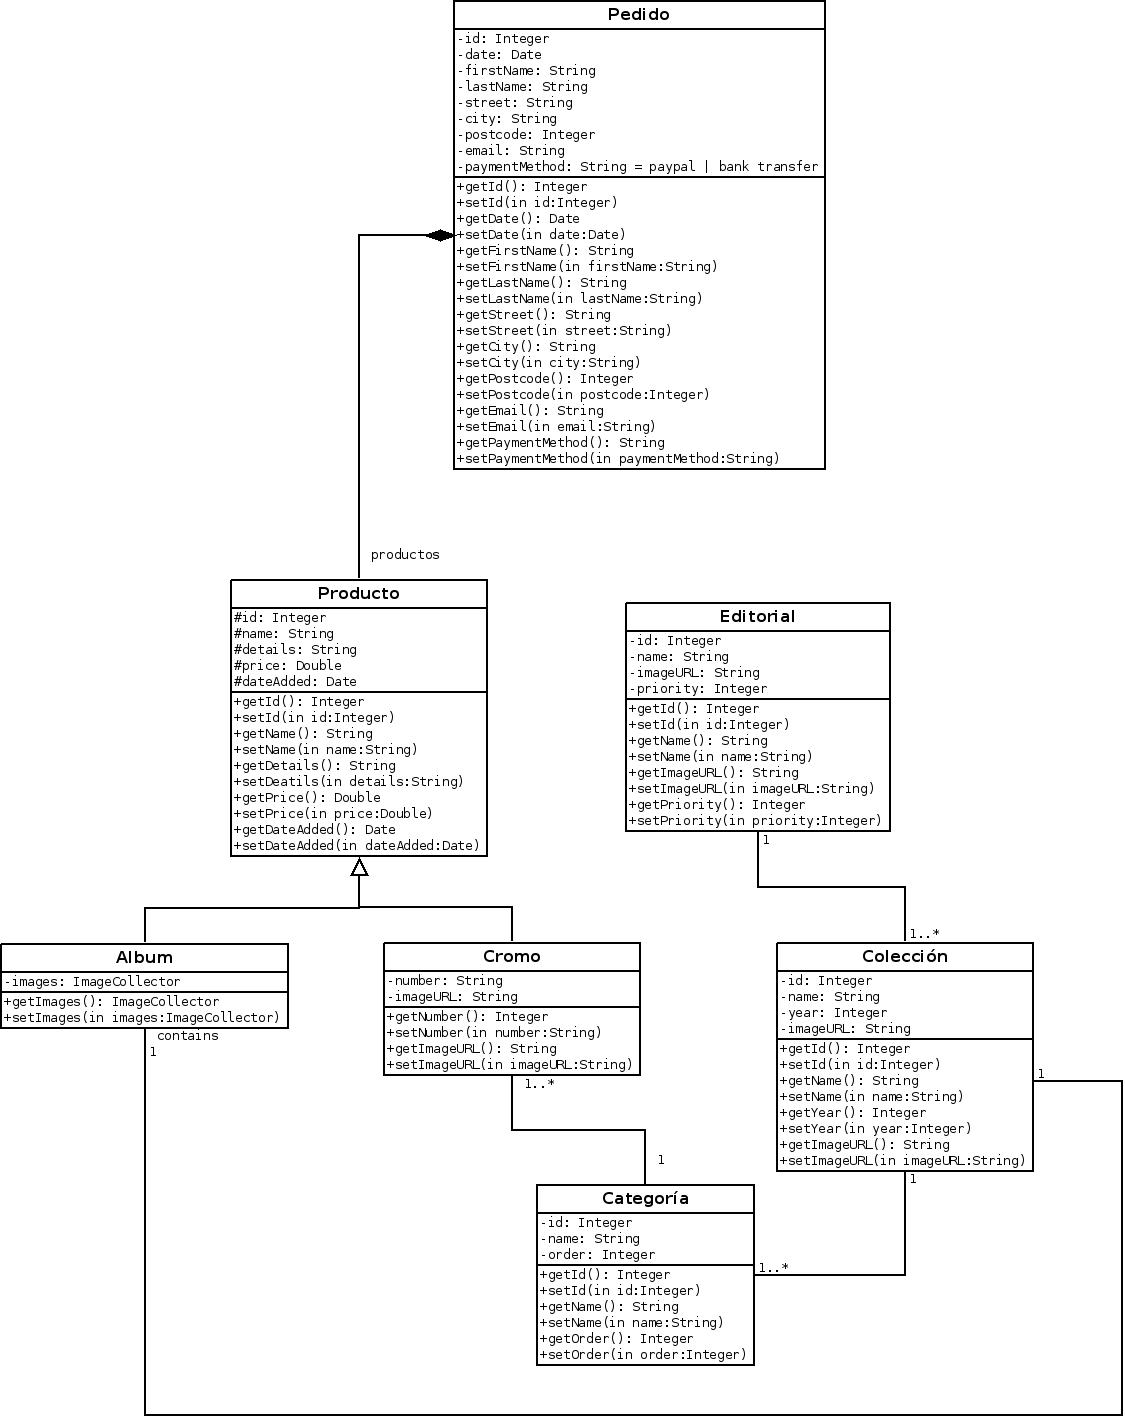
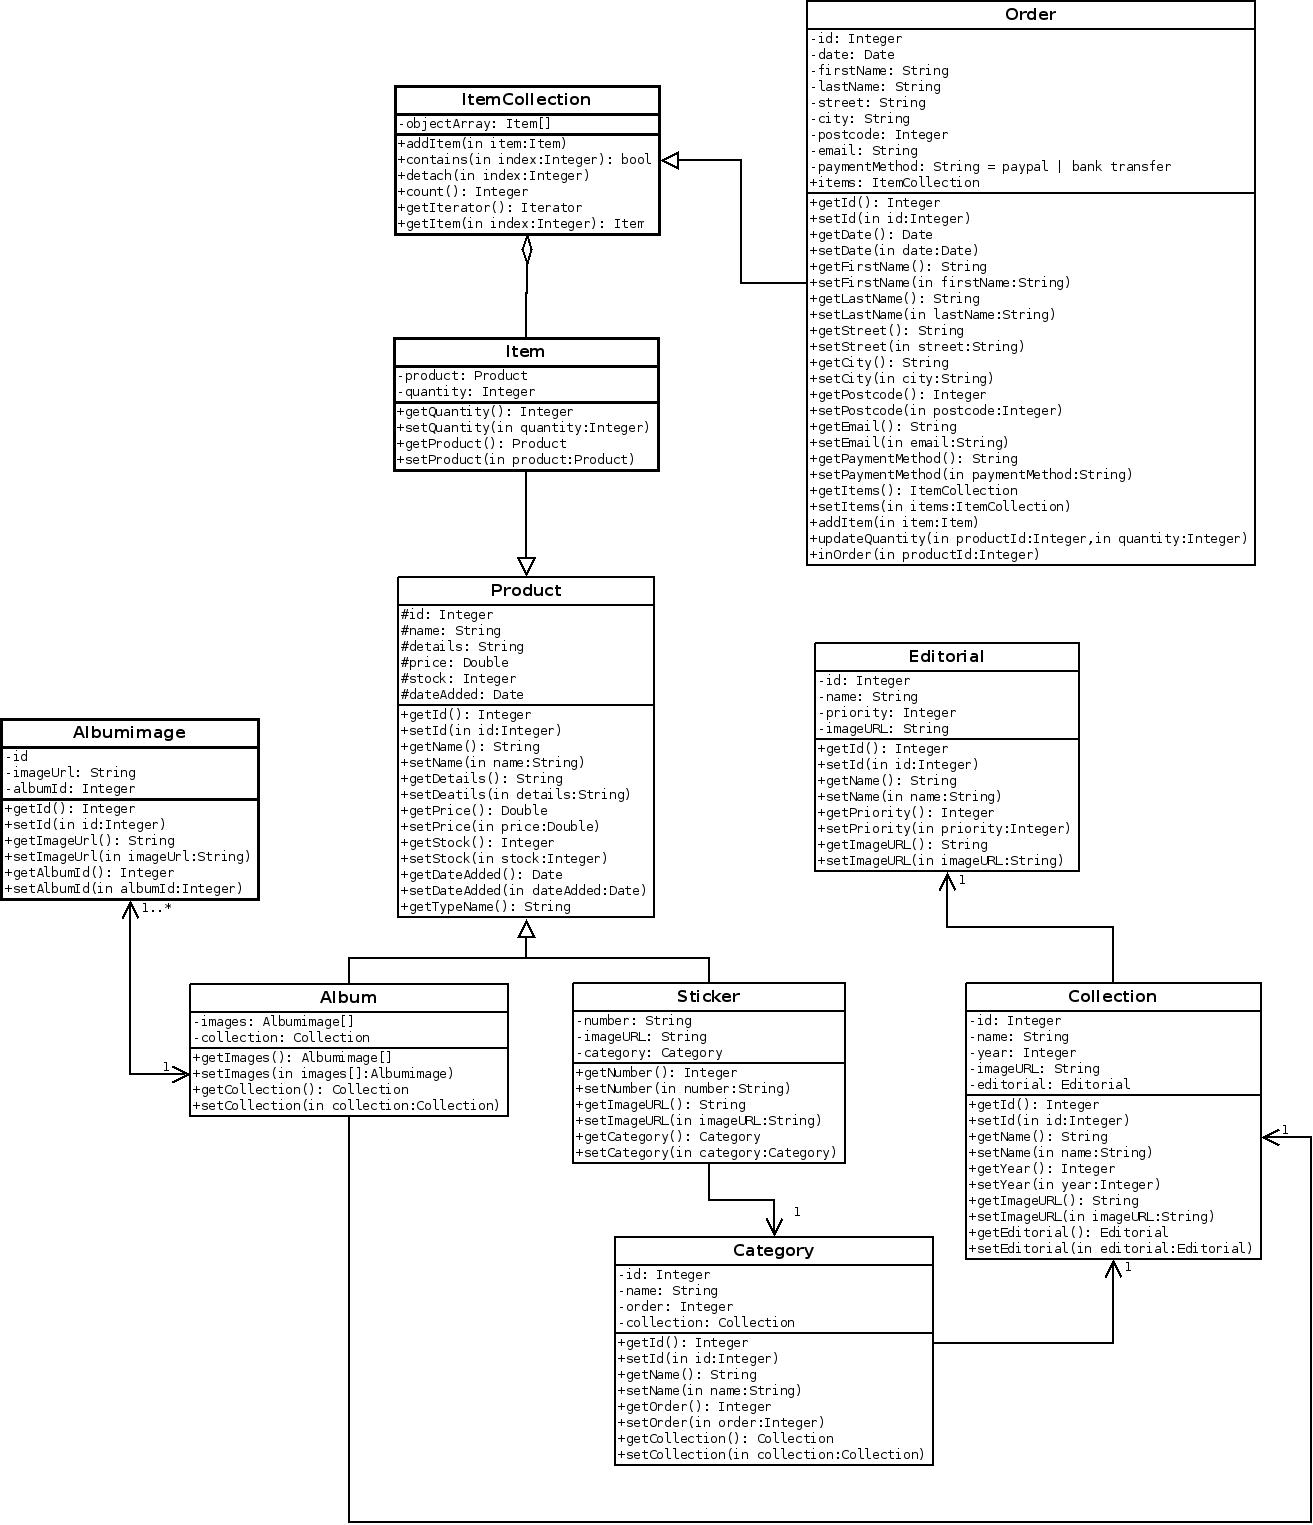
update the uml diagrams

diff --git a/library/Core/Store/Order.php b/library/Core/Store/Order.php
@@ -26,6 +26,16 @@ class Core_Store_Order
     
     private $_items = null;
     
+	
+	private function findProduct($productId)
+    {
+        if ($this->inCart($productId)) {
+            return $this->_contents->getItem($productId);
+        }
+        
+        return null;
+    }
+	
     
     public function __construct($id = null,
                                 $date = null,
@@ -198,6 +208,33 @@ class Core_Store_Order
     {
         $this->_items = $items;
 		return $this;
+    }
+	
+	
+	public function addItem(Core_Store_Cart_Item $item)
+    {
+        if ($this->inOrder($item->getId())) {
+            $this->updateQuantity($item->getId(), $item->getQuantity());
+        } else {
+            $this->_contents->addItem($item->getId(), $item);
+        }
+    }
+    
+	
+    public function updateQuantity($productId, $quantity, $quantityFromPost = false)
+    {
+        $item = $this->findProduct($productId);
+        
+        if ($item !== null) {
+            $quantity = ($quantityFromPost === true) ?  $quantity : $item->getQuantity() + $quantity;
+            $item->setQuantity($quantity);
+        }
+    }
+	
+	
+	public function inOrder($productId)
+    {
+        return $this->_items->offsetExists($productId);
     }
 	
 		

diff --git a/library/Core/Store/Cart/Item.php b/library/Core/Store/Cart/Item.php
@@ -8,6 +8,12 @@ class Core_Store_Cart_Item
     
     private $_subTotal = null;
     
+	
+	private function _calculateSubTotal()
+    {
+        $this->getSubTotal();
+    }
+	
     
     public function __construct(Core_Store_Product $product = null,
                                 $quantity = null)
@@ -15,12 +21,6 @@ class Core_Store_Cart_Item
         $this->_product = $product;
         $this->_quantity = $quantity;
         $this->_calculateSubTotal();
-    }
-    
-    
-    private function _calculateSubTotal()
-    {
-        $this->getSubTotal();
     }
     
     
